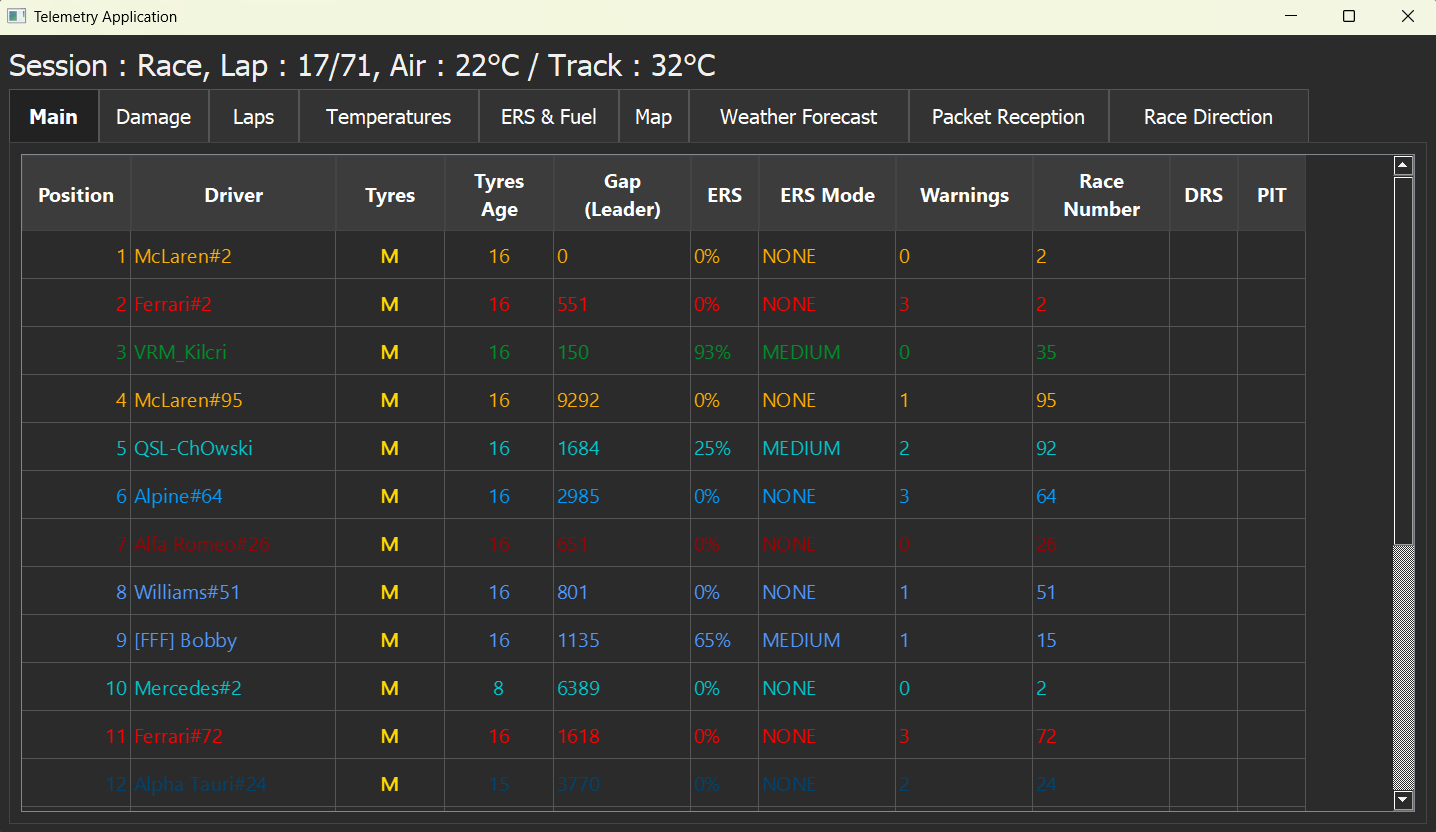
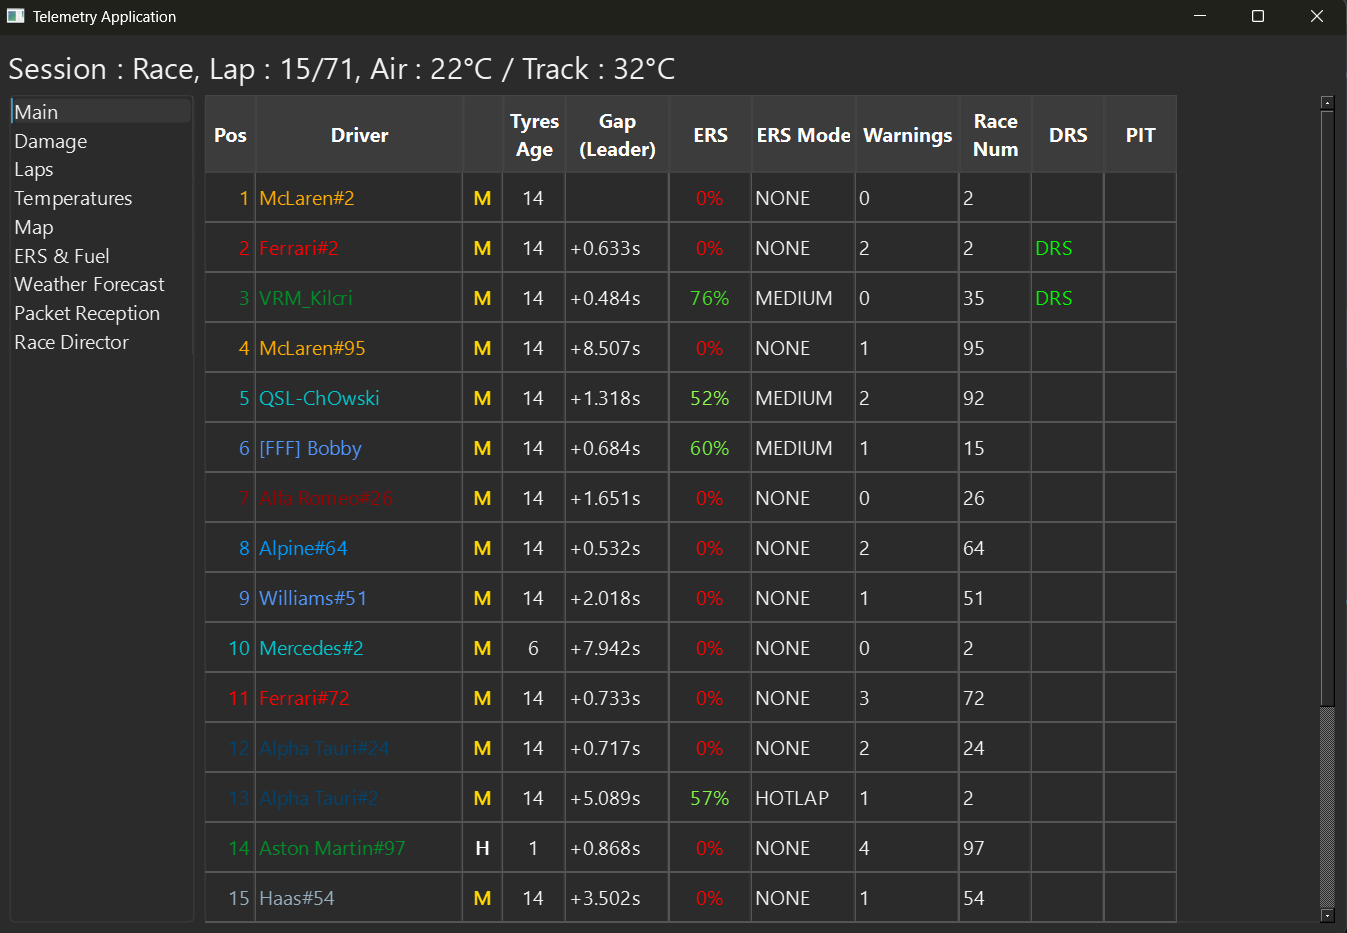
updated readme

diff --git a/src/table_models/MainTableModel.py b/src/table_models/MainTableModel.py
@@ -30,6 +30,7 @@ class MainTableModel(GeneralTableModel):
     def data(self, index, role=Qt.DisplayRole):
         if role == Qt.DisplayRole:
             return self._data[index.row()][index.column()]
+
         if role == Qt.ForegroundRole:
             if index.column() in [0, 1]:
                 return teams_color_dictionary[self.sorted_players_list[index.row()].teamId]
@@ -62,4 +63,11 @@ class MainTableModel(GeneralTableModel):
         """
         self.sorted_players_list : list[Player] = sorted(PLAYERS_LIST)
         self._data = [player.main_tab() for player in self.sorted_players_list if player.position != 0]
-        self.layoutChanged.emit()
+
+        if self.nb_players != len(self._data):
+            self.nb_players = len(self._data)
+            self.layoutChanged.emit()
+        else:
+            top_left = self.index(0, 0)
+            bottom_right = self.index(self.rowCount() - 1, self.columnCount() - 1)
+            self.dataChanged.emit(top_left, bottom_right, [Qt.DisplayRole])

diff --git a/src/table_models/GeneralTableModel.py b/src/table_models/GeneralTableModel.py
@@ -22,7 +22,12 @@ class GeneralTableModel(QAbstractTableModel):
         self._data = data
         self.column_sizes = column_sizes
 
+        self.nb_players = len(self._data)
+
         self.table = QTableView()
+        self.table.setSelectionMode(QAbstractItemView.NoSelection)
+        self.table.setEditTriggers(QAbstractItemView.NoEditTriggers)
+        self.table.setFocusPolicy(Qt.NoFocus)
         self.create_table()
 
     def rowCount(self, parent=QModelIndex()):
@@ -47,7 +52,7 @@ class GeneralTableModel(QAbstractTableModel):
         return False
 
     def flags(self, index):
-        return Qt.ItemIsEnabled
+        return Qt.NoItemFlags
 
     def headerData(self, section, orientation, role):
         if role == Qt.DisplayRole:

diff --git a/src/packet_processing/Player.py b/src/packet_processing/Player.py
@@ -9,7 +9,7 @@ class Player:
     def __init__(self):
         self.position: int = 1
         self.tyre_wear = ["0.00", "0.00", "0.00", "0.00"]
-        self.tyre_blisters = [0,0,0,0]
+        self.tyre_blisters = ["0.00", "0.00", "0.00", "0.00"]
         self.tyres = 0
         self.warnings = 0
         self.ERS_mode = -1
@@ -84,7 +84,7 @@ class Player:
         if self.gap_to_car_ahead == 0:
             return ""
         else:
-            return "+" + '%.3f'% self.gap_to_car_ahead
+            return "+" + '%.3f'% self.gap_to_car_ahead + "s"
 
     def show_tyres_list_damage(self, tyres_list):
         return [(str(tyres_list[i]), src.packet_processing.variables.interpolate_color_damage(tyres_list[i])) for i in

diff --git a/src/packet_processing/Session.py b/src/packet_processing/Session.py
@@ -68,7 +68,8 @@ class Session:
             string = f"Session : {session_dictionary[self.Session]}, Lap : {self.currentLap}/{self.nbLaps}, " \
                         f"Air : {self.airTemperature}°C / Track : {self.trackTemperature}°C"
         elif self.Session in [5, 6, 7, 8, 9]:
-            string = f" Qualy : {src.packet_processing.variables.format_minutes(self.time_left)}"
+            string = (f" {session_dictionary[self.Session]} : "
+                      f"{src.packet_processing.variables.format_minutes(self.time_left)}")
         else:
             string = f" FP : {src.packet_processing.variables.format_minutes(self.time_left)}"
         return string

diff --git a/src/table_models/ERSAndFuelTableMable.py b/src/table_models/ERSAndFuelTableMable.py
@@ -53,4 +53,11 @@ class ERSAndFuelTableModel(GeneralTableModel):
         """
         self.sorted_players_list: list[Player] = sorted(PLAYERS_LIST)
         self._data = [player.ers_and_fuel_tab() for player in self.sorted_players_list if player.position != 0]
-        self.layoutChanged.emit()
+
+        if self.nb_players != len(self._data):
+            self.nb_players = len(self._data)
+            self.layoutChanged.emit()
+        else:
+            top_left = self.index(0, 0)
+            bottom_right = self.index(self.rowCount() - 1, self.columnCount() - 1)
+            self.dataChanged.emit(top_left, bottom_right, [Qt.DisplayRole])

diff --git a/src/table_models/TemperatureTableModel.py b/src/table_models/TemperatureTableModel.py
@@ -55,4 +55,11 @@ class TemperatureTableModel(GeneralTableModel):
         """
         self.sorted_players_list: list[Player] = sorted(PLAYERS_LIST)
         self._data = [player.temperature_tab() for player in self.sorted_players_list if player.position != 0]
-        self.layoutChanged.emit()
+
+        if self.nb_players != len(self._data):
+            self.nb_players = len(self._data)
+            self.layoutChanged.emit()
+        else:
+            top_left = self.index(0, 0)
+            bottom_right = self.index(self.rowCount() - 1, self.columnCount() - 1)
+            self.dataChanged.emit(top_left, bottom_right, [Qt.DisplayRole])

diff --git a/src/table_models/DamageTableModel.py b/src/table_models/DamageTableModel.py
@@ -55,4 +55,11 @@ class DamageTableModel(GeneralTableModel):
         """
         self.sorted_players_list : list[Player] = sorted(PLAYERS_LIST)
         self._data = [player.damage_tab() for player in self.sorted_players_list if player.position != 0]
-        self.layoutChanged.emit()
+
+        if self.nb_players != len(self._data):
+            self.nb_players = len(self._data)
+            self.layoutChanged.emit()
+        else:
+            top_left = self.index(0, 0)
+            bottom_right = self.index(self.rowCount() - 1, self.columnCount() - 1)
+            self.dataChanged.emit(top_left, bottom_right, [Qt.DisplayRole])

diff --git a/src/table_models/LapTableModel.py b/src/table_models/LapTableModel.py
@@ -53,4 +53,11 @@ class LapTableModel(GeneralTableModel):
         """
         self.sorted_players_list: list[Player] = sorted(PLAYERS_LIST)
         self._data = [player.lap_tab() for player in self.sorted_players_list if player.position != 0]
-        self.layoutChanged.emit()
+
+        if self.nb_players != len(self._data):
+            self.nb_players = len(self._data)
+            self.layoutChanged.emit()
+        else:
+            top_left = self.index(0, 0)
+            bottom_right = self.index(self.rowCount() - 1, self.columnCount() - 1)
+            self.dataChanged.emit(top_left, bottom_right, [Qt.DisplayRole])

diff --git a/src/packet_processing/packet_management.py b/src/packet_processing/packet_management.py
@@ -56,7 +56,7 @@ def update_lap_data(packet):  # Packet 2
         joueur.resultStatus = element.m_result_status
         joueur.lapDistance = element.m_lap_distance
 
-        if element.m_sector1_time_in_ms == 0 and joueur.currentSectors[0] != 0:  # On attaque un nouveau tour
+        if element.m_sector1_time_in_ms == 0 and joueur.currentSectors[0] != 0:  # We start a new lap
             joueur.lastLapSectors = joueur.currentSectors[:]
             joueur.lastLapSectors[2] = joueur.lastLapTime / 1_000 - joueur.lastLapSectors[0] - joueur.lastLapSectors[1]
 

diff --git a/src/packet_processing/dictionnaries.py b/src/packet_processing/dictionnaries.py
@@ -25,7 +25,7 @@ orange = QColor("#FF9300")
 
 
 tyres_dictionnary = {
-    0:"S",
+    0: "S",
     16: "S",
     17: "M",
     18: "H",
@@ -146,8 +146,15 @@ session_dictionary = {
     5: "Q1",
     6: "Q2",
     7: "Q3",
-    8: "Short qualy",
-    15: "Race"
+    8: "Short Qualifying",
+    9: "One-Shot Qualifying",
+    10: "Sprint Shootout 1",
+    11: "Sprint Shootout 2",
+    12: "Sprint Shootout 3",
+    13: "Short Sprint Shootout",
+    14: "One-Shot Sprint Shootout",
+    15: "Race",
+    18: "Time Trial"
 
 }
 

diff --git a/src/table_models/PacketReceptionTableModel.py b/src/table_models/PacketReceptionTableModel.py
@@ -34,4 +34,7 @@ class PacketReceptionTableModel(GeneralTableModel):
             [packetDictionnary[i], str(self.parent.packet_reception_dict[i]) + "/s"]
             for i in range(len(packetDictionnary))
         ]
-        self.layoutChanged.emit()
+
+        top_left = self.index(0, 1)
+        bottom_right = self.index(self.rowCount() - 1, 1)
+        self.dataChanged.emit(top_left, bottom_right, [Qt.DisplayRole])

diff --git a/src/packet_processing/variables.py b/src/packet_processing/variables.py
@@ -75,7 +75,6 @@ created_map = False
 WIDTH_POINTS = 6
 button_list: list = ["Main Menu", "Damage", "Temperatures", "Laps", "Map", "ERS & Fuel", "Weather Forecast",
                               "Packet Reception"]
-POSITION_CHANGED = False
 REDRAW_MAP = True
 
 
